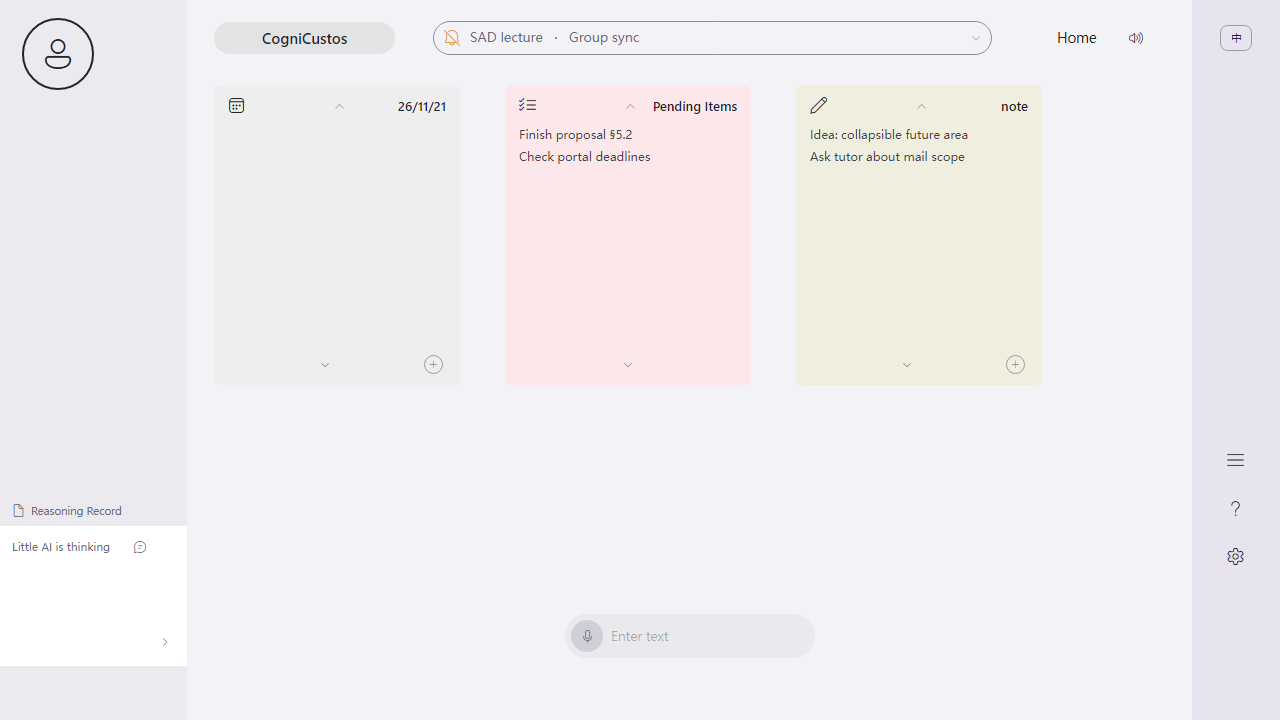
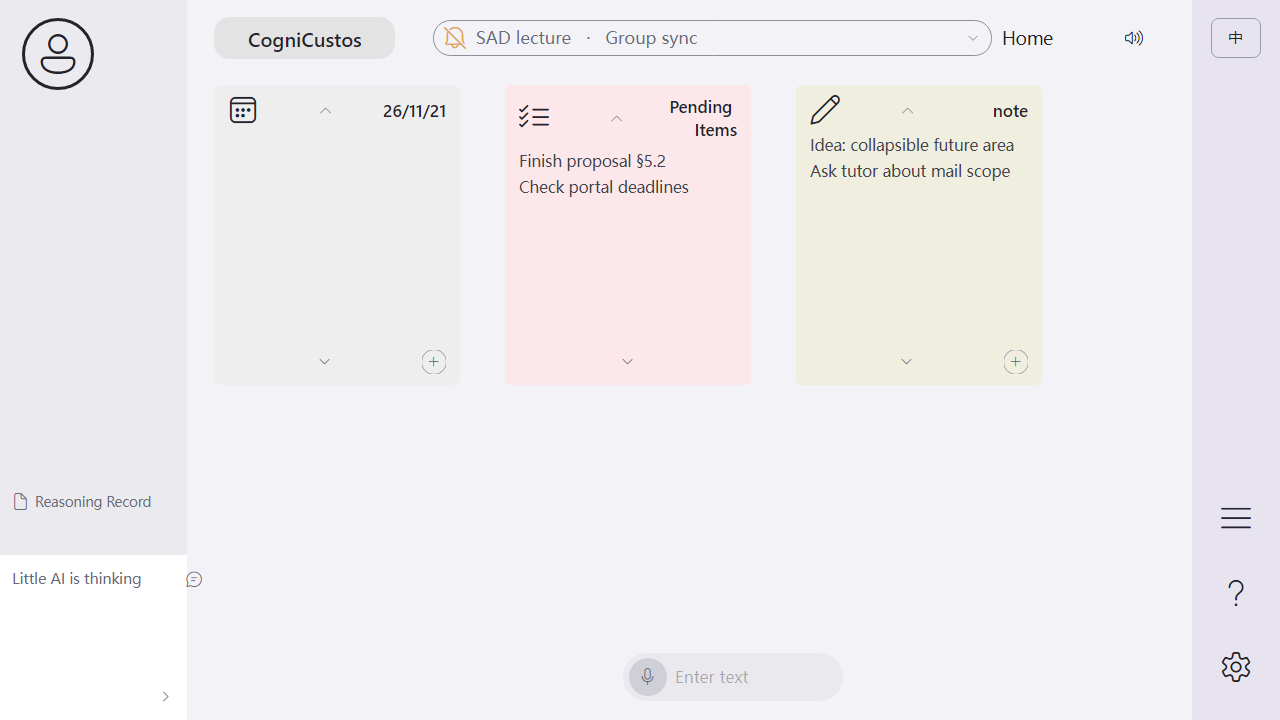
fix(ui): align the shell to the sketch, measured
Bottom/right alignment (all numbers measured off docs/sketch-reference.png and
converted with x1.598 / x1.596):

- sidebar reasoning panel now runs flush to the window bottom (was 54px short)
- input pill: 220x48, 19px above the bottom (was 250x44, 62px above)
- right rail icon centres at y=519 / 593 / 667 (were 461 / 509 / 557)
- top bar Home sits where the sketch has it (margin-right 34)
- input is centred over "everything right of the sidebar", as in the sketch

Typography and icon scale (the earlier pass was ~30% too small):

- brand 20, Home 17, card title 17 (box 104), body 15.5, sidebar panel 15
- card + rail icons 30, alarm 26, En pill 50x40, chip 181x42, tiles 60x74

Tooling: shots can now take the sketch and a crop rect, and writes
artifacts/ui/compare.png (sketch on top, render below); sketch is checked in as
docs/sketch-reference.png, VS Code task "shots-compare". Drawer labels and the
settings nav were widened so the bigger type does not clip.

Verified: 24/24 tests, Selftest 37/37, 10 states + compare, real window smoke.

diff --git a/tools/CogniCustos.Ui.Shots/Program.cs b/tools/CogniCustos.Ui.Shots/Program.cs
@@ -1,8 +1,10 @@
 using Avalonia;
 using Avalonia.Headless;
+using Avalonia.Media;
 using Avalonia.Media.Imaging;
 using Avalonia.Threading;
 using CogniCustos.Ui;
+using CogniCustos.Ui.Localization;
 using CogniCustos.Ui.ViewModels;
 
 namespace CogniCustos.Ui.Shots;
@@ -10,6 +12,10 @@ namespace CogniCustos.Ui.Shots;
 /// <summary>
 /// Renders every UI state to a PNG. Assertions live in tools/CogniCustos.Ui.Tests;
 /// this tool only draws.
+///
+/// Usage: CogniCustos.Ui.Shots &lt;outDir&gt; [width] [height] [sketchPath] [crop]
+///   crop = "x,y,w,h" of the sketch panel to compare against (optional).
+/// When a sketch is given, a side-by-side compare.png is written next to the states.
 /// </summary>
 internal static class Program
 {
@@ -24,7 +30,9 @@ internal static class Program
     {
         var outDir = args.Length > 0 ? args[0] : "artifacts/ui";
         var width = args.Length > 1 ? int.Parse(args[1]) : 1280;
-        var height = args.Length > 2 ? int.Parse(args[2]) : 800;
+        var height = args.Length > 2 ? int.Parse(args[2]) : 720;
+        var sketchPath = args.Length > 3 ? args[3] : string.Empty;
+        var crop = args.Length > 4 ? args[4] : string.Empty;
 
         AppBuilder.Configure<App>()
             .UseHeadless(new AvaloniaHeadlessPlatformOptions { UseHeadlessDrawing = false })
@@ -37,33 +45,92 @@ internal static class Program
 
         foreach (var state in States)
         {
-            var vm = new ShellViewModel();
-            // Every state starts from English; the zh states switch inside ShowState.
-            vm.ApplyLanguage(CogniCustos.Ui.Localization.Localizer.English);
-            vm.ShowState(state);
+            failures += Snap(outDir, state, width, height) ? 0 : 1;
+        }
 
-            var window = new ShellWindow(vm) { Width = width, Height = height };
-            window.Show();
-            Dispatcher.UIThread.RunJobs();
-
-            var frame = window.CaptureRenderedFrame();
-            if (frame is null)
-            {
-                Console.WriteLine($"FAIL {state}: renderer returned no frame");
-                failures++;
-            }
-            else
-            {
-                var path = Path.Combine(outDir, $"{state}-{width}x{height}.png");
-                frame.Save(path, new PngBitmapEncoderOptions());
-                Console.WriteLine($"OK   {state} -> {path}");
-            }
-
-            window.Close();
-            Dispatcher.UIThread.RunJobs();
+        if (sketchPath.Length > 0)
+        {
+            failures += Compare(outDir, sketchPath, crop, width, height) ? 0 : 1;
         }
 
         Console.WriteLine(failures == 0 ? "ALL OK" : $"{failures} FAILURE(S)");
         return failures == 0 ? 0 : 1;
+    }
+
+    private static bool Snap(string outDir, string state, int width, int height)
+    {
+        var frame = RenderState(state, width, height);
+        if (frame is null)
+        {
+            Console.WriteLine($"FAIL {state}: renderer returned no frame");
+            return false;
+        }
+
+        var path = Path.Combine(outDir, $"{state}-{width}x{height}.png");
+        frame.Save(path, new PngBitmapEncoderOptions());
+        Console.WriteLine($"OK   {state} -> {path}");
+        frame.Dispose();
+        return true;
+    }
+
+    private static WriteableBitmap? RenderState(string state, int width, int height)
+    {
+        var vm = new ShellViewModel();
+        // Every state starts from English; the zh states switch inside ShowState.
+        vm.ApplyLanguage(Localizer.English);
+        vm.ShowState(state);
+
+        var window = new ShellWindow(vm) { Width = width, Height = height };
+        window.Show();
+        Dispatcher.UIThread.RunJobs();
+
+        var frame = window.CaptureRenderedFrame();
+        window.Close();
+        Dispatcher.UIThread.RunJobs();
+        return frame;
+    }
+
+    /// <summary>Stack the sketch (top) and the render (bottom) into one PNG.</summary>
+    private static bool Compare(string outDir, string sketchPath, string crop, int width, int height)
+    {
+        if (!File.Exists(sketchPath))
+        {
+            Console.WriteLine($"FAIL compare: sketch not found at {sketchPath}");
+            return false;
+        }
+
+        using var sketch = new Bitmap(sketchPath);
+        using var frame = RenderState("home", width, height);
+        if (frame is null)
+        {
+            Console.WriteLine("FAIL compare: no frame");
+            return false;
+        }
+
+        var source = ParseCrop(crop, sketch.PixelSize);
+        using var target = new RenderTargetBitmap(new PixelSize(width, height * 2 + 24), new Vector(96, 96));
+
+        using (var context = target.CreateDrawingContext())
+        {
+            context.DrawImage(sketch, source, new Rect(0, 0, width, height));
+            context.DrawImage(frame, new Rect(0, height + 24, width, height));
+        }
+
+        var path = Path.Combine(outDir, "compare.png");
+        target.Save(path, new PngBitmapEncoderOptions());
+        Console.WriteLine($"OK   compare -> {path}");
+        return true;
+    }
+
+    private static Rect ParseCrop(string crop, PixelSize size)
+    {
+        if (crop.Length == 0) return new Rect(0, 0, size.Width, size.Height);
+
+        var parts = crop.Split(',');
+        if (parts.Length != 4) return new Rect(0, 0, size.Width, size.Height);
+
+        return new Rect(
+            double.Parse(parts[0]), double.Parse(parts[1]),
+            double.Parse(parts[2]), double.Parse(parts[3]));
     }
 }

diff --git a/docs/UI-SANDBOX.md b/docs/UI-SANDBOX.md
@@ -31,11 +31,24 @@ tools/CogniCustos.Ui.Tests/    ← 无头回归：24 条断言，非 0 退出码
 
 | 区域 | 草稿 | 1280 画布 | 说明 |
 |---|---|---|---|
-| 左栏 | 0–117（14.6%） | **187** | 顶部大 logo；底部「推理记录」白面板 |
+| 左栏 | 0–117（14.6%） | **187** | 顶部大 logo；底部「推理记录」白面板，**下沿齐窗口底** |
 | 内容区 | 118–745 | 1005 | 顶栏 76 高；卡片从 y=85 开始 |
-| 右栏 | 746–801（6.9%） | **88** | 顶部 `En`，下部 ≡ / ? / ⚙ |
+| 右栏 | 746–801（6.9%） | **88** | 顶部 `En`，图标中心在 y=519 / 593 / 667 |
 | 卡片 | 154 宽 / 28 间距 | **246 / 45** | 三张左对齐，起点 x=214 |
-| 输入框 | 155 宽 | **250** | 内容区水平居中，距底 62 |
+| 输入框 | 134×30 | **220×48** | 居中于「左栏右侧的全部区域」，距底 19 |
+
+字号与图标（同一套换算，草图值是实测像素）：
+
+| 元素 | 草稿 | 画布 |
+|---|---|---|
+| 品牌 chip 文字 | cap≈10 | **20**，chip 181×42 |
+| 顶栏 Home | cap≈10 | **17** |
+| 卡片标题 | ≈13 | **17**，标题框 104 宽、右对齐 |
+| 正文/列表行 | ≈12 | **15.5** |
+| 左栏面板文字 | ≈11 | **15** |
+| 卡片图标 / 右栏图标 | 20–26 | **30** |
+| 抽屉图标 / 标签 | 20 / 8 | 22 / 10 |
+| `En` 胶囊 | 33×29 | **50×40** |
 
 **语义（这里曾经读错，已纠正）**：
 
@@ -115,10 +128,20 @@ PASS canvas_scales_uniformly_at_1024x576 / 1280x720 / 1600x900 / 1920x1080 / 256
 PASS canvas_letterboxes_at_4x3
 ```
 
-## 七、出图
+## 七、出图与「和草图对齐」检查
 
 10 个状态 → `artifacts/ui/`：`home drawer expanded settings help collapsed toast settings-zh settings-deep today-list`。
 `toast` 之后的状态曾被语言污染（跑马灯/中文混排），现在每个状态都先复位到英文再演。
+
+**每轮改完必做**：把 `docs/sketch-reference.png`（你的原始草图，已入库）和渲染结果叠成一张对比图。
+
+```bash
+dotnet run --project tools/CogniCustos.Ui.Shots -- artifacts/ui 1280 720 docs/sketch-reference.png 0,0,802,452
+# 产物：artifacts/ui/compare.png（上=草图裁切缩放到 1280×720，下=当前渲染）
+```
+
+VS Code 里对应 `shots-compare` 任务。第 4、5 个参数是草图的裁切矩形（`x,y,w,h`），
+正对该草图的第一个面板；换一张设计稿时改这两个数即可。
 
 ## 八、版本与依赖
 
@@ -129,13 +152,17 @@ PASS canvas_letterboxes_at_4x3
 
 1. **日历模式没做**：日历卡目前只有外观，点开是后续工作；＋ 因此暂时禁用。
 2. 卡片底部 ∨（打开列表）与抽屉里 7 个图标**还没有目标页面**。
-3. **文字随窗口缩**：1024×576 时 11.5px 正文约 9px。
+3. **文字随窗口缩**：1024×576 时 15.5px 正文约 12px。
 4. **DPI**：比例与 DPI 无关，但 150%/200% 的实际观感未实测。
 5. 预览器渲染未实测。
-6. 译文过长会顶出固定宽度（卡片标题 90、抽屉标签 52）。
+6. 译文过长会顶出固定宽度（卡片标题 104、抽屉标签 52）。
+7. **图标是 MDL2 字形，不是手绘**：草图里的图标更粗、形状也不完全一样（草图的 ≡ 带喇叭，这里用汉堡）。
 
 ## 十、变更记录
 
-**第 6 轮（2026-11-21）**：按草稿纠正三处误读——补左栏（logo + 推理记录）、顶部改成"今天"提醒条（跑马灯 + 展开列表）、第一张卡改成压缩日历；卡片几何按实测重排（246/45/起点 214），pending 卡去掉 ＋，输入框收窄到 250，右栏加宽到 88。
+**第 7 轮（2026-11-21）**：对齐修正——左栏推理面板下沿齐底、输入框下移到底部 19px、右栏图标中心 519/593/667、顶栏 Home 位置；同时把整块排版按草图实测放大（正文 15.5、卡片标题 17、品牌 20、卡片/右栏图标 30、En 50×40）。新增 `docs/sketch-reference.png` 与 `shots-compare`（渲染 + 草图叠图），每轮必跑。
+
+**第 6 轮**：按草稿纠正三处误读——补左栏（logo + 推理记录）、顶部改成"今天"提醒条（跑马灯 + 展开列表）、第一张卡改成压缩日历；卡片几何按实测重排（246/45/起点 214），pending 卡去掉 ＋，输入框收窄，右栏加宽到 88。
+
 
 **第 5 轮**：画布改 1280×720（16:9）。**第 4 轮**：等比缩放 + 文案资源化。**第 3 轮**：四个 bug + 回归工程。
